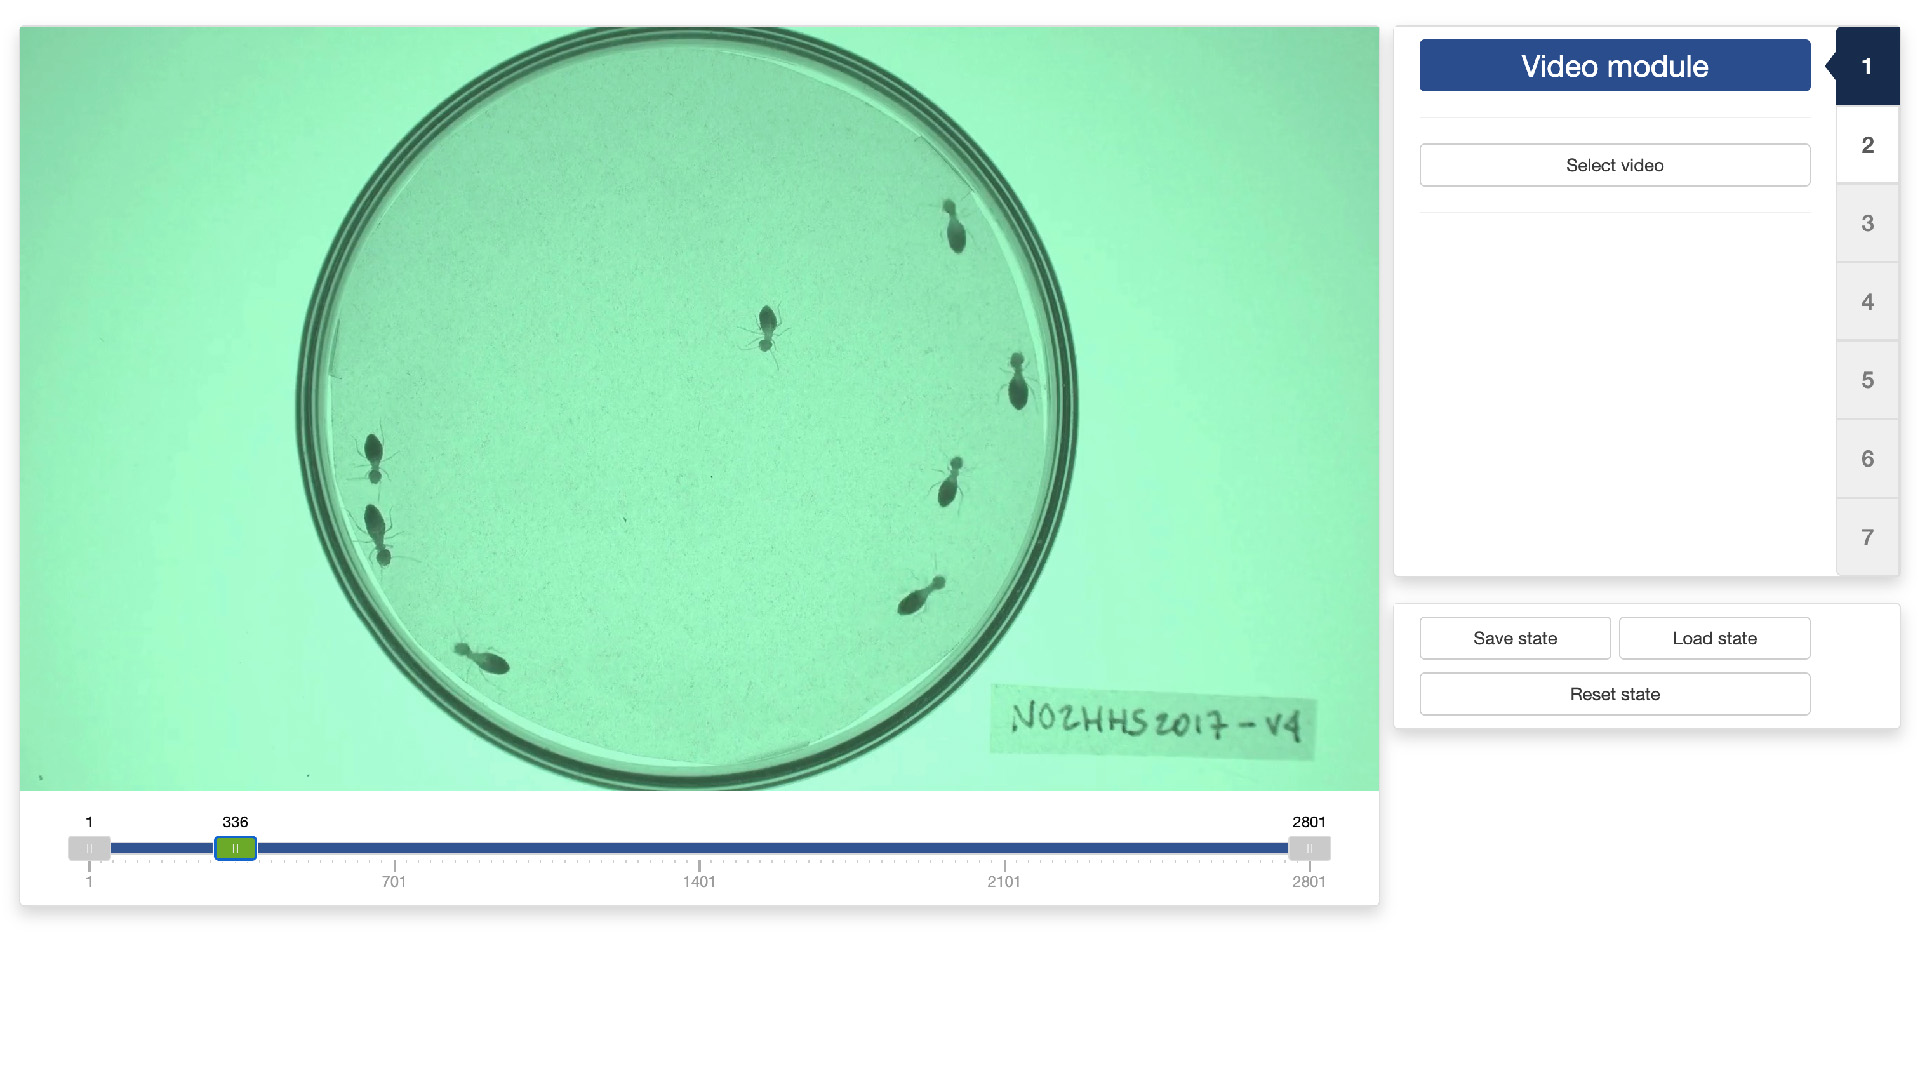
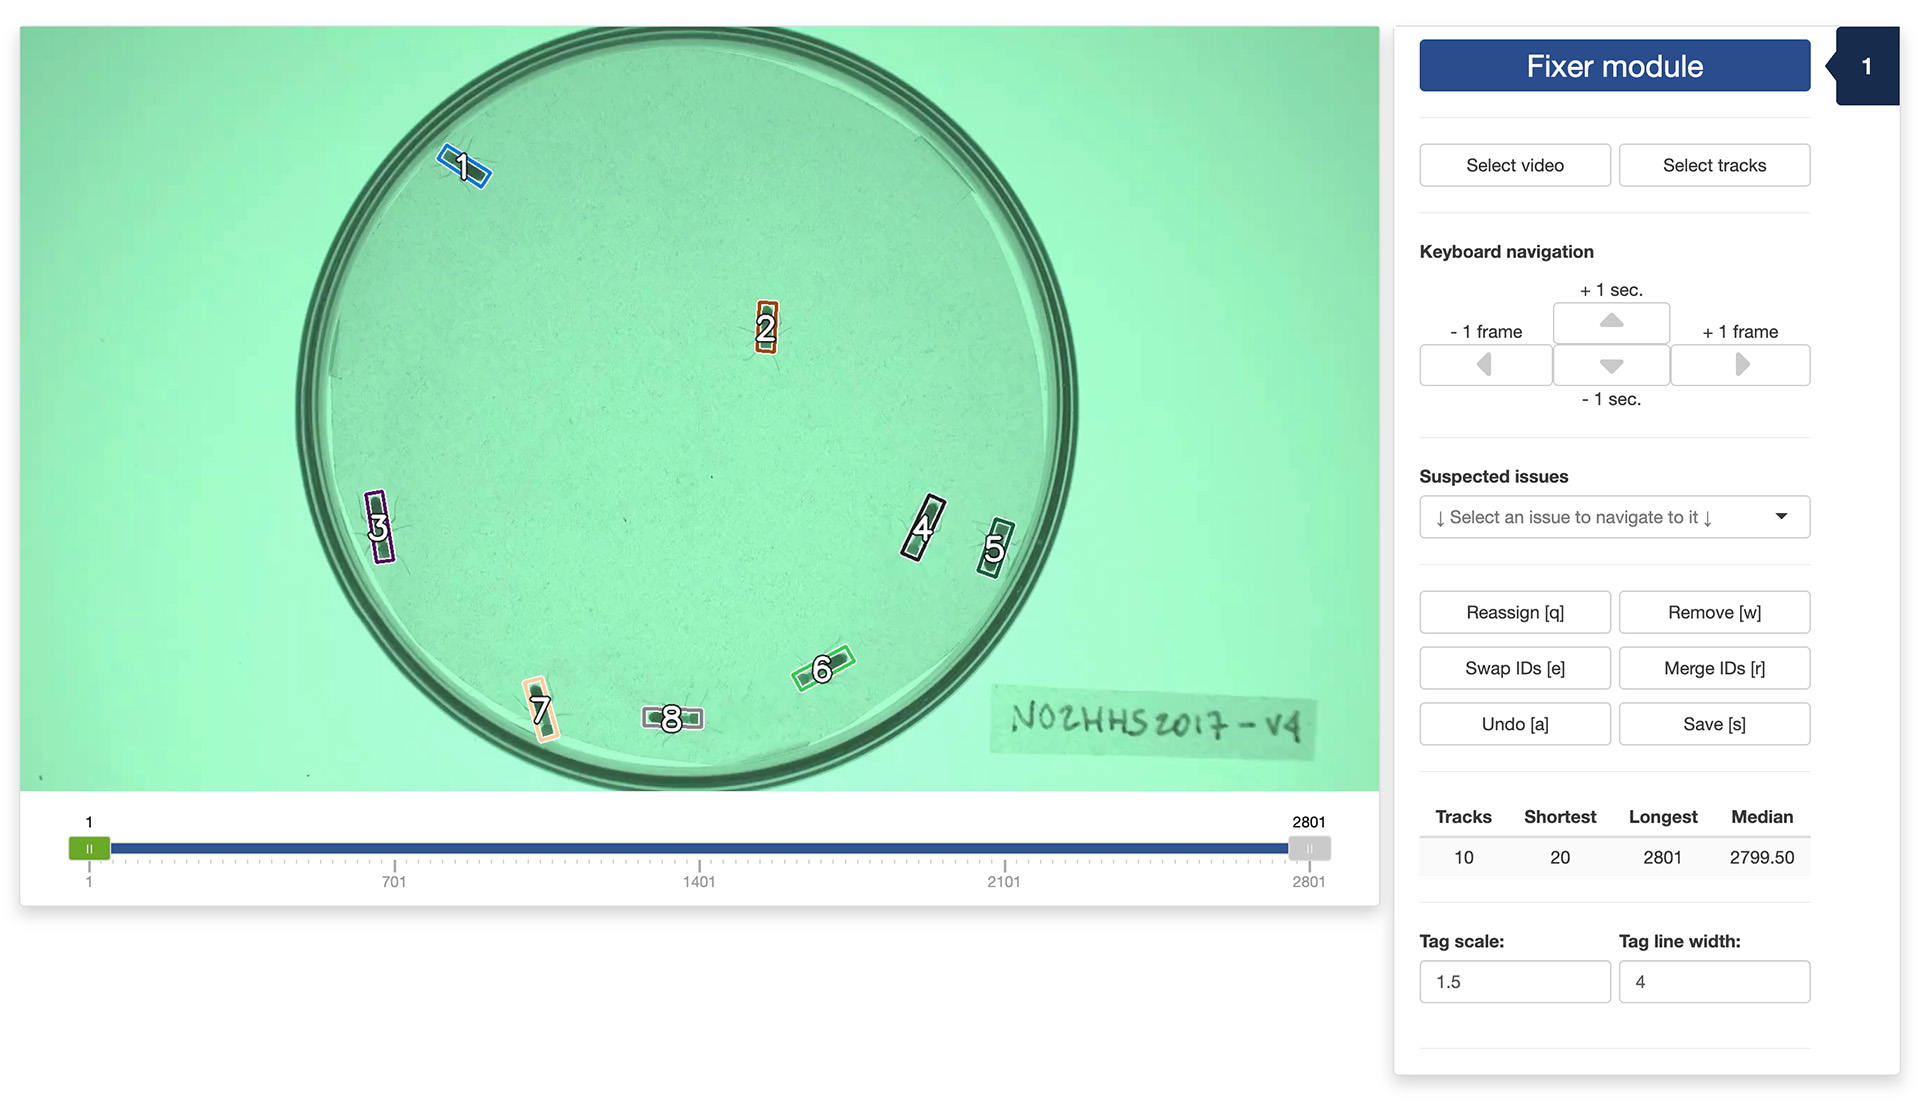
Add fixing vignette

diff --git a/README.md b/README.md
@@ -37,7 +37,8 @@ track overlaid on top of them.
 ## Quick start guides
 
 + [1. Installing trackRcv](https://swarm-lab.github.io/trackRcv/articles/z1_installing_trackRcv.html)
-+ More to come...
++ [2. Tracking objects](https://swarm-lab.github.io/trackRcv/articles/z2_tracking_objects.html)
++ [3. Fixing tracks](https://swarm-lab.github.io/trackRcv/articles/z3_fixing_tracks.html)
 
 ---
 
